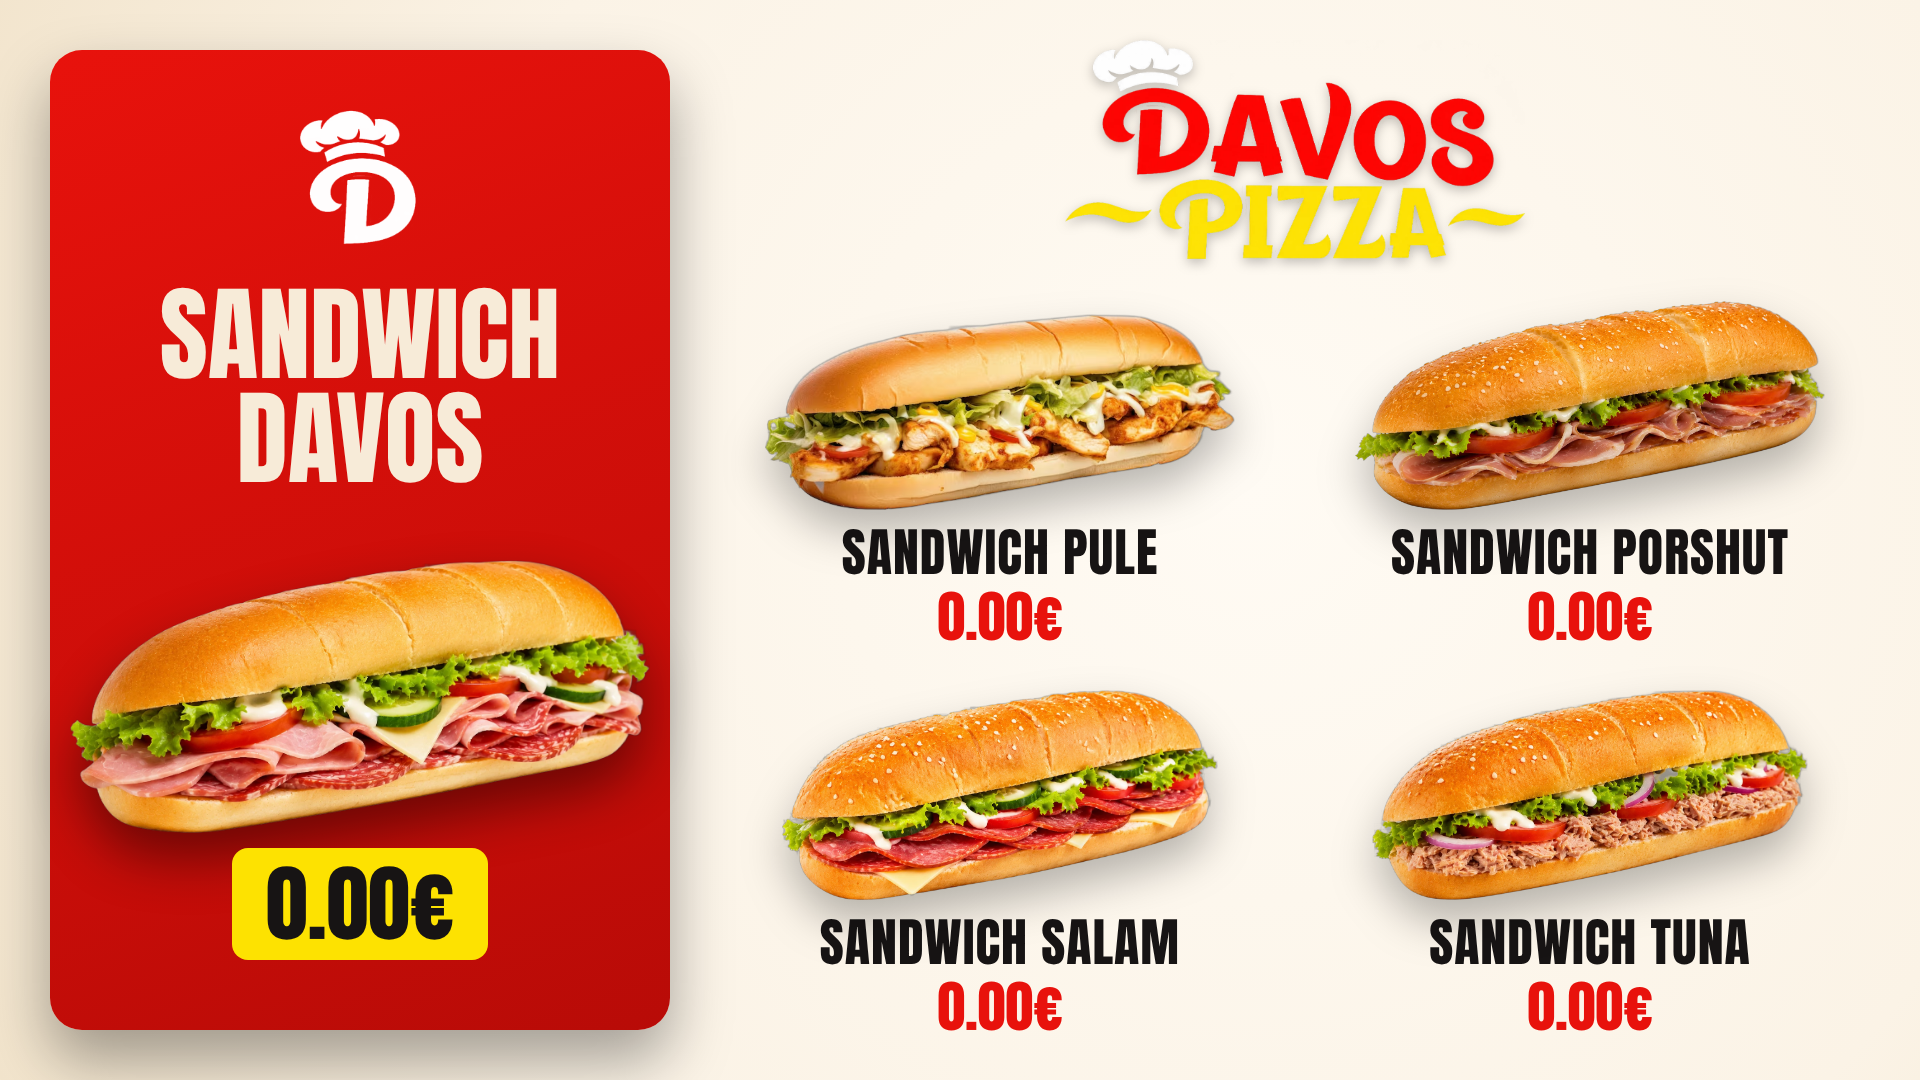
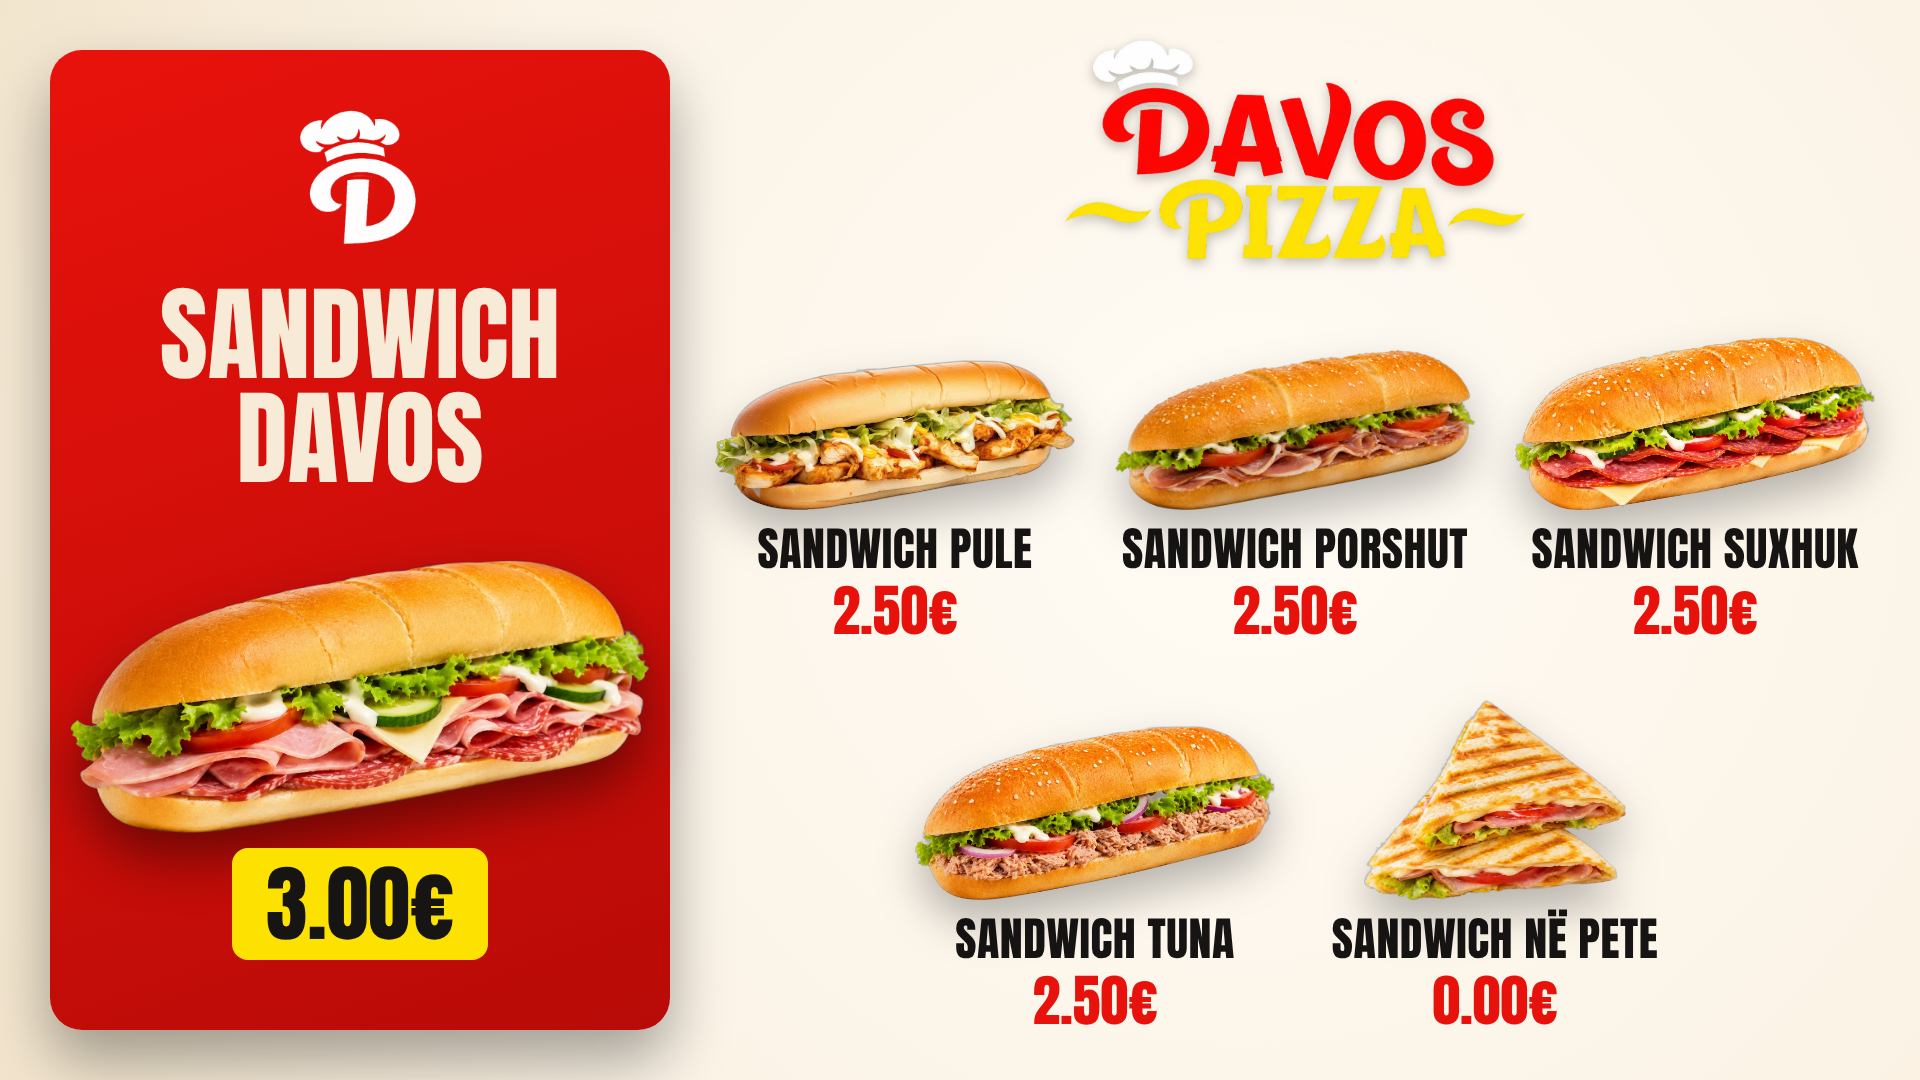
Sandwich menu: prices, Suxhuk, add Sandwich ne pete
Claude-Session: https://claude.ai/code/session_01Xb7jPxrPq6UpPr8fj4vFP7

diff --git a/videos/davos-burgers/src/SandwichMenu.tsx b/videos/davos-burgers/src/SandwichMenu.tsx
@@ -59,16 +59,18 @@ export const SandwichMenu: React.FC = () => {
 
       {/* 2x2 grid */}
       {rest.map((s, i) => {
-        const col = i % 2;
-        const row = Math.floor(i / 2);
-        const cx = 1000 + col * 590;
+        // 3 columns; a shorter last row is centered.
+        const row = Math.floor(i / 3);
+        const inRow = Math.min(3, rest.length - row * 3);
+        const col = i % 3;
+        const cx = 1295 + (col - (inRow - 1) / 2) * 400;
         const top = 300 + row * 390;
         return (
-          <div key={s.id} style={{ position: "absolute", left: cx - 270, top, width: 540, textAlign: "center" }}>
+          <div key={s.id} style={{ position: "absolute", left: cx - 195, top, width: 390, textAlign: "center" }}>
             <div style={{ height: 210, display: "flex", alignItems: "flex-end", justifyContent: "center" }}>
-              <Img src={staticFile(`sw-${s.id}.png`)} style={{ maxWidth: 470, maxHeight: 210, filter: shadow }} />
+              <Img src={staticFile(`sw-${s.id}.png`)} style={{ maxWidth: 360, maxHeight: 200, filter: shadow }} />
             </div>
-            <div style={{ fontFamily: anton, fontSize: 52, color: COLORS.dark, marginTop: 16, letterSpacing: 1, lineHeight: 1 }}>
+            <div style={{ fontFamily: anton, fontSize: 46, color: COLORS.dark, marginTop: 16, letterSpacing: 0.5, lineHeight: 1, whiteSpace: "nowrap" }}>
               {s.line1} {s.line2}
             </div>
             <div style={{ fontFamily: anton, fontSize: 56, color: COLORS.red, marginTop: 10, lineHeight: 1 }}>

diff --git a/videos/davos-burgers/src/config.ts b/videos/davos-burgers/src/config.ts
@@ -52,11 +52,12 @@ export const PIZZAS: { id: PizzaId; name: string; prices: [string, string, strin
 
 // ---------- Sandwich menu (static image) ----------
 // Put the real price in `price` (e.g. "2.50"). The first one is shown on the red card.
-export type SandwichId = "pule" | "mix" | "salam" | "tuna" | "porshut";
+export type SandwichId = "pule" | "mix" | "salam" | "tuna" | "porshut" | "pete";
 export const SANDWICHES: { id: SandwichId; line1: string; line2: string; price: string }[] = [
-  { id: "mix", line1: "SANDWICH", line2: "DAVOS", price: "0.00" },
-  { id: "pule", line1: "SANDWICH", line2: "PULE", price: "0.00" },
-  { id: "porshut", line1: "SANDWICH", line2: "PORSHUT", price: "0.00" },
-  { id: "salam", line1: "SANDWICH", line2: "SALAM", price: "0.00" },
-  { id: "tuna", line1: "SANDWICH", line2: "TUNA", price: "0.00" },
+  { id: "mix", line1: "SANDWICH", line2: "DAVOS", price: "3.00" },
+  { id: "pule", line1: "SANDWICH", line2: "PULE", price: "2.50" },
+  { id: "porshut", line1: "SANDWICH", line2: "PORSHUT", price: "2.50" },
+  { id: "salam", line1: "SANDWICH", line2: "SUXHUK", price: "2.50" },
+  { id: "tuna", line1: "SANDWICH", line2: "TUNA", price: "2.50" },
+  { id: "pete", line1: "SANDWICH", line2: "NË PETE", price: "0.00" },
 ];
